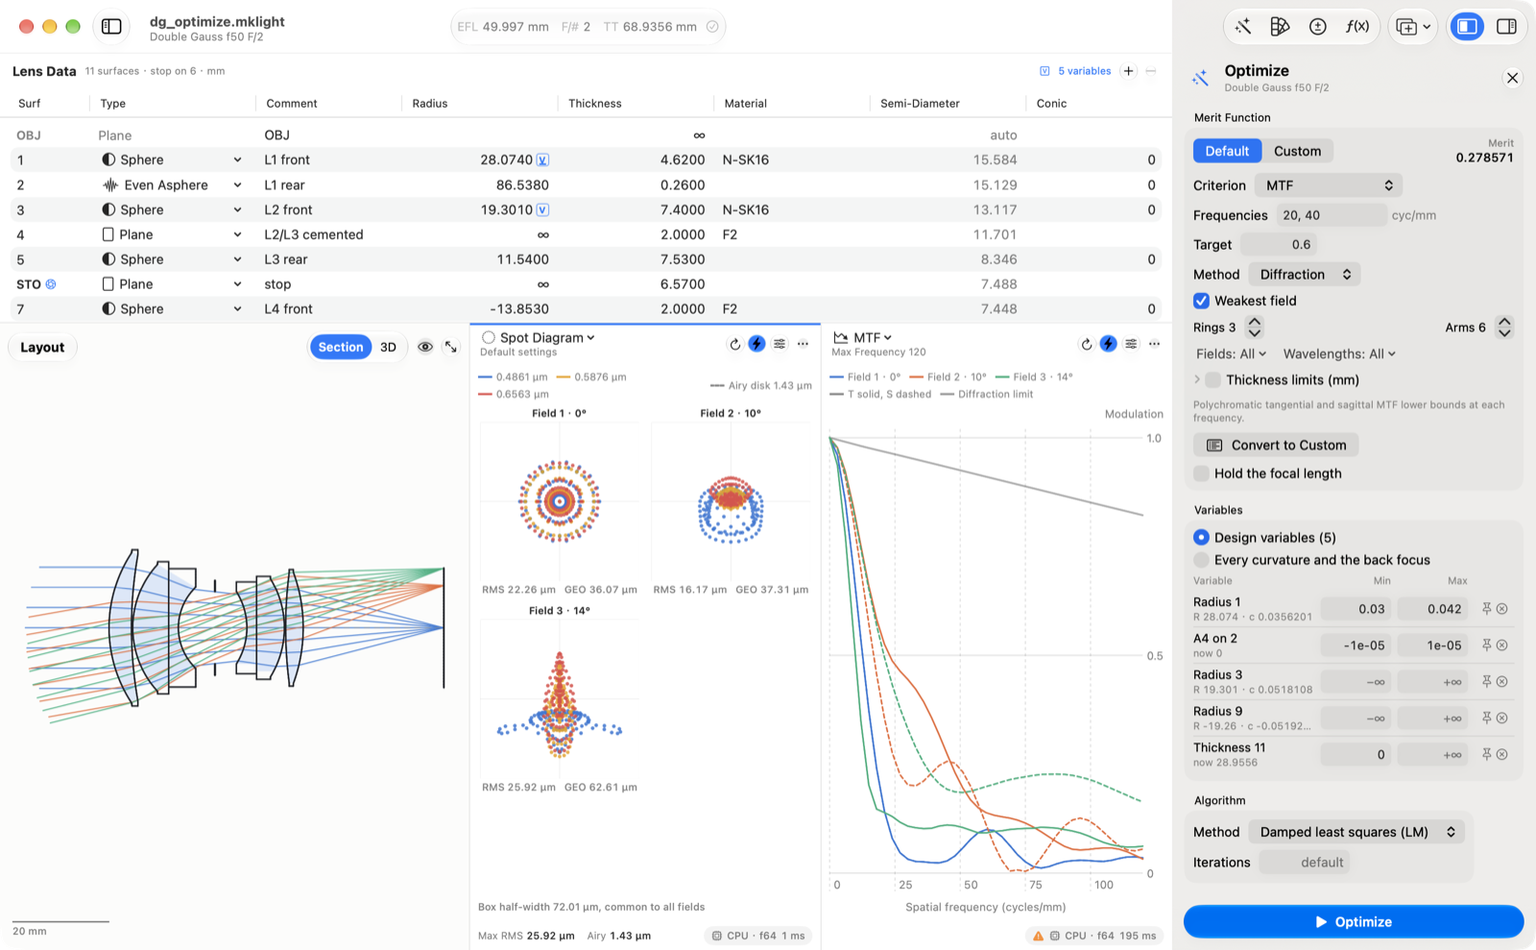
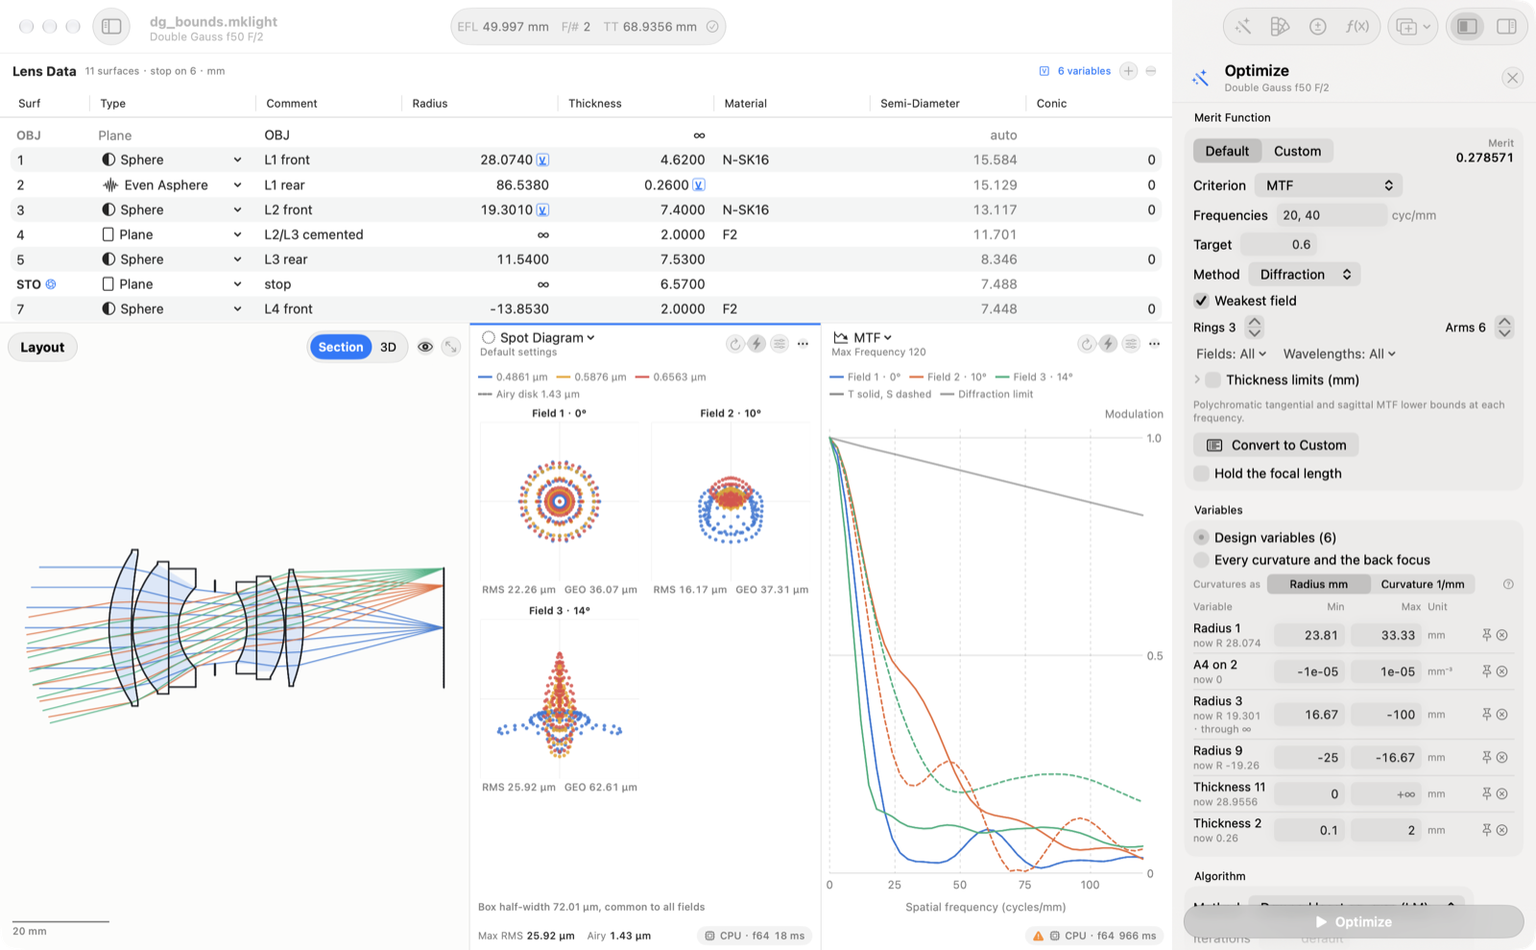
Docs and screenshots for the review round; at least three x labels, shorter bound captions, departure map in µm
APP.md: the anamorphic lens data, one number format, units, the radius
window bounds, narrow panes, grouped warnings with remedies, heat-map
scales, the image simulation's starting patch and controls, the section
stretch, the new launch options and tests, and the engine issues found.
Screenshots: updated main, merit, anamorphic, image simulation, field
maps, spectrum, freeform, diffractive and footprints; new narrow panes,
narrow maps and run details.

diff --git a/apps/macos/Sources/MKLightUI/Views/Jobs/MeritEditor.swift b/apps/macos/Sources/MKLightUI/Views/Jobs/MeritEditor.swift
@@ -981,7 +981,9 @@ struct VariableBoundsRow: View {
         // bounds in the other unit are in the help.
         if path.isCurvature {
             let r = RadiusDisplay.radius(fromCurvature: value)
-            return asRadius ? "now R \(Fmt.short(r))" : "now c \(Fmt.short(value)) (R \(Fmt.short(r)))"
+            guard asRadius else { return "now c \(BoundsFormat.compact(value))" }
+            let s = shown
+            return "now R \(Fmt.short(r))" + (RadiusBounds.passesThroughFlat(minRadius: s.min, maxRadius: s.max) ? " · through ∞" : "")
         }
         return "now \(Fmt.short(value))"
     }

diff --git a/apps/macos/Sources/MKLightUI/Views/Analysis/Components.swift b/apps/macos/Sources/MKLightUI/Views/Analysis/Components.swift
@@ -254,9 +254,9 @@ struct LineChart: View {
     var xTicks: [Double]?
 
     var body: some View {
-        // About one x label per 70 pt, so narrow panes do not overlap them.
+        // About one x label per 60 pt (at least three), so narrow panes do not overlap them.
         GeometryReader { geo in
-            axes(chart, xCount: max(2, min(6, Int(geo.size.width / 70))))
+            axes(chart, xCount: max(3, min(6, Int(geo.size.width / 60))))
         }
     }
 

diff --git a/docs/APP.md b/docs/APP.md
@@ -145,8 +145,22 @@ What we took from Apple's current guidance, and how MKLight applies it.
 * **The lens data is the heart.** The table is always visible at the top of
   the window and shows only what every surface has: surface (with the stop
   marked), type, comment, radius, thickness, material, semi-diameter and
-  conic. Everything type-specific lives in the inspector. A toroid's or
-  biconic's radius and conic are its y section's, marked `y`.
+  conic. Everything type-specific lives in the inspector. Anamorphic
+  surfaces (toroid, biconic, cylinder) show both sections in the radius
+  cell, `y ∞   x −50`, each edited in place (Tab moves y → x); a
+  cylinder's flat section is dimmed and only its powered section's conic
+  shows; a biconic shows both conics.
+* **One number format.** Numbers read the same everywhere, whatever the
+  system region: a decimal point and no digit grouping (`n=1.5`,
+  `12345.678`), as in prescriptions, glass catalogues and the engine's
+  files. Every window runs with `NumberDisplay.locale` (en_US_POSIX), so
+  chart axes, number fields and `formatted()` follow the rule; the
+  `String(format:)` paths are locale-free. Typed numbers also accept a
+  decimal comma (`1,5`). Signed columns never show `−0.0000`.
+* **Units at hand.** Every bounded or edited quantity names its unit: the
+  lens table's header (mm), the bounds list's unit column (`mm`, `1/mm`,
+  `mm⁻³` for A₄, `°`, `µm`, `rad`; dimensionless shows `–`), the colour
+  bars, the axis titles.
 * **Progressive disclosure.** Surface types are described as data
   (`SurfaceTypes`): sections of parameters addressed by their key path in the
   model's JSON (`curvature`, `phase.norm_radius`), coefficient lists with add
@@ -230,7 +244,13 @@ What we took from Apple's current guidance, and how MKLight applies it.
   the accent) and a Footprints button runs `footprint` and draws every
   surface's beam outline per field (`global_outlines`), filled
   translucently. Fit Lens frames the elements; the first fit of a long,
-  slim scene does so by itself. A previewed candidate design shows a glass
+  slim scene does so by itself. **Vertical stretch**: the section views
+  can be drawn ×2 … ×50 taller than long (Display menu); a first fit that
+  would leave the section a sliver (under an eighth of the view's height)
+  turns it on at the smallest step that fills a third. A stretched view
+  says so in a tinted "Stretch ×N" menu among the controls and on the
+  scale bar, which adds an upright bar of a round length as drawn and
+  "vertical ×N"; the 3-D view always keeps true proportions. A previewed candidate design shows a glass
   "Previewing … · not applied" label under the controls.
 * **Analysis panes** (`AnalysisPaneView`): side by side with resizable
   widths. The header has the analysis menu and a one-line state or settings
@@ -238,8 +258,28 @@ What we took from Apple's current guidance, and how MKLight applies it.
   (bolt), Settings (a popover with the schema-driven form; "Pin in pane"
   keeps it as a compact strip) and More. The plot is content. The footer has
   the key numbers and a backend badge (CPU · f64 neutral, GPU · f32 in the
-  accent, an orange mark for warnings or a fallback) that opens the run
-  details. Stale: dimmed, desaturated, slightly blurred, with a glass card
+  accent, an orange mark for warnings or a fallback, with their count when
+  there are several kinds) that opens the run details.
+  * *Narrow panes* (checked at about 240 pt): the header folds Update and
+    Settings into More first, then sets the title a type step smaller,
+    then abbreviates it (`RI Map`, `CRA`, `Pupil Aberr.`; the full title
+    stays in the help tag and the VoiceOver label); the state line
+    truncates and never decides the layout. Legends are one flow that
+    wraps (wavelengths, line styles, the Airy disk together), spot
+    statistics move to two lines, fan plots put the field above the
+    tangential and sagittal plots, chart axes take about one label per
+    70 pt and keep their end labels inside, the CRA legend moves under
+    its picker, the Seidel Petzval radius under its picker and the
+    wavefront coefficients wrap.
+  * *Warnings* (`RunWarnings`): the engine's run warnings are grouped by
+    message (numbers masked), with the fields and wavelengths they
+    concern numbered from 1 as everywhere in the app (`Field 1, Field 3`).
+    They are readable without a click (the badge's help tag lists them),
+    in VoiceOver (the badge's label reads them) and in the run details
+    popover, which also lists the engine's raw messages and offers a
+    one-click remedy where the analysis has the setting: "Sample the Pupil
+    Finer (grid 64 → 128)" for coarse pupil sampling, "Enlarge the Image
+    Grid" for a truncated PSF. Stale: dimmed, desaturated, slightly blurred, with a glass card
   and a prominent Update; updating: a progress line and a gentle pulse. The
   dedicated views are as before (first order with the anamorphic note, spot,
   fans, field curvature, Seidel, MTF, PSF, wavefront, ghosts, stray light,
@@ -249,10 +289,19 @@ What we took from Apple's current guidance, and how MKLight applies it.
   share one reader (`FieldMapData`). A grid run is a heat map over the
   normalised field, interpolated between the sample dots, with a column
   picker that shows each column's definition (beside it, or below in
-  narrow panes) and the diverging scale for signed quantities; an x or y
-  sweep is a curve. Relative illumination adds iso-lines (marching squares,
-  0.5…0.95) on a fixed 0…1 scale and the illumination against image
-  radius. The chief ray angle is plotted against image height with the
+  narrow panes); an x or y sweep is a curve. **Heat-map scales**
+  (`HeatMapScale`, one rule for every map of a quantity): signed data
+  keeps the diverging blue–red scale centred on 0 and symmetric about it;
+  other data takes the perceptual sequential ramp (viridis from its 0.1
+  step: lightness rises monotonically, readable in light and dark and
+  with colour-vision deficiencies) over the data's own range, so a 0.85…1
+  illumination map shows its fall-off; fractions offer "0 to 1" to
+  compare designs; a flat map gets a narrow band around its value. The
+  polarisation pupil maps and generic grids follow it; PSF and irradiance
+  images keep the one-hue magnitude ramp whose zero recedes into the
+  plot. Relative illumination adds iso-lines (marching squares, about
+  five round levels inside the data's range, white on a dark halo,
+  labels kept apart) and the illumination against image radius. The chief ray angle is plotted against image height with the
   sensor limit; the margin between them is shaded and turns red where the
   limit is exceeded, and asymmetric systems open on a map. The glass map
   (`GlassMapChart`, reused by Glass Substitution) draws the catalogue in the
@@ -261,10 +310,21 @@ What we took from Apple's current guidance, and how MKLight applies it.
   glasses are ringed and labelled with their surfaces; hover shows a glass's
   data and a click inspects it. The image simulation shows the simulated
   sensor image beside its source, side by side, split or blinking, with
-  exposure, zoom and pan; built-in patterns are drawn as the engine defines
-  them; a user image (any format ImageIO reads) is cropped to the field,
-  resampled in linear light and sent as a buffer, and the project keeps
-  only its path. The footer has the pixel size, the largest distortion and
+  exposure, zoom and pan. New panes start on a visible patch
+  (`ImageSimulationSettings.starting`): the centre 10 % of the field at
+  256 px (about 9.5 µm pixels on the Double Gauss against its 22 µm RMS
+  spot), a 161-sample PSF window and a 96-sample pupil, so the PSFs are
+  not truncated; the engine's defaults (the full field at 64 px, a
+  33-sample PSF) show no blur at all. The view's controls set the field
+  of view (full field, ½, ¼, centre 10 %, 5 %, 2 %: a square centred on
+  the axis, each with its width and pixel size on the sensor) and the
+  resolution (128 … 1024 px). Image simulation starts manual (seconds per
+  run). Built-in patterns are drawn by the app with the engine's
+  definition, area-sampled (4 × 4 per pixel) and sent as a buffer source
+  at the run's size, so both the shown source and the simulation are
+  antialiased; a user image (any format ImageIO reads) is cropped to the
+  field, resampled in linear light and sent as a buffer, and the project
+  keeps only its path. The footer has the pixel size, the largest distortion and
   the lowest relative illumination of the field mapping, which a popover
   lists node by node. The settings bar has compact controls for two-number
   settings (grid, extent, size), a table for the sensor CRA limit and a
@@ -324,10 +384,22 @@ What we took from Apple's current guidance, and how MKLight applies it.
     edits, on the design's snapshot) and reads its `start` merit and
     operand `start` values; shares are weight × residual² over their sum.
   * **Variables and bounds** (`VariablesBoundsList`): every design variable
-    with its current value (radius and curvature for curvatures), inline
-    min and max (empty is unbounded), pin (equal bounds: kept but held, and
+    with its current value, inline min and max (empty is unbounded) in the
+    unit of the row's unit column, pin (equal bounds: kept but held, and
     left out of the run), remove; out-of-bounds values, automatic
-    semi-diameters and vanished parameters are flagged. New variables get
+    semi-diameters and vanished parameters are flagged. **Radii are
+    bounded as a radius window in mm** by default (`RadiusBounds`; a
+    "Curvatures as Radius mm | Curvature 1/mm" switch shows the engine's
+    curvature bounds instead, and each row's help gives the bounds in the
+    other unit). The window `min … max` rises from min to max on the
+    projective line of radii: 40 … 60 is c ∈ [1/60, 1/40] and −60 … −40 is
+    c ∈ [−1/40, −1/60]; min above max wraps through flat (R = ∞), so
+    100 … −100 is |R| ≥ 100, the curvature interval [−0.01, 0.01] through
+    0 (the caption says "through ∞"); an empty side is open (50 …
+    empty is R ≥ 50, c ∈ [0, 0.02]); 0 is the limit R → 0, leaving the
+    curvature unbounded on that side; ∞ … ∞ holds the surface flat. A
+    window containing R = 0 (−50 … 50) is no curvature interval and is
+    refused with an explanation. New variables get
     sensible bounds: air gaps and the back focus ≥ 0, glass thickness ≥ 1
     mm, model n_d 1.4…2.1 and V_d 15…100, semi-diameters and normalisation
     radii > 0.
@@ -446,8 +518,11 @@ scripts/build-macos.sh --no-engine --engine-only   # remove the library again
   `-MKLightAppearance light|dark` (overrides the system appearance),
   `-MKLightSheet glass`, `-MKLightAutoRun glass` (and `-MKLightAutoPick n`),
   `-MKLightAutoStop s` and `-MKLightAutoApply s` (press Stop / Apply after
-  s seconds), `-MKLightFootprints YES`, `-MKLightFit lens`. Pane layouts
-  come from the document's `views`.
+  s seconds), `-MKLightFootprints YES`, `-MKLightFit lens`,
+  `-MKLightRunDetails <analysis>` (opens that pane's run details) and
+  `-MKLightCurvatureBoundsUnit curvature` (the bounds list's unit, an
+  `@AppStorage` preference). Pane layouts come from the document's
+  `views`.
 
 ## `FFIEngine`
 
@@ -530,8 +605,8 @@ callback never runs on the main thread and holds no engine lock.
 
 ## Tests
 
-`swift test` in `apps/macos` (227 tests in 41 suites: model 69, engine 33,
-FFI 35, UI 90):
+`swift test` in `apps/macos` (241 tests in 42 suites: model 69, engine 33,
+FFI 35, UI 104):
 
 * `MKLightModelTests`: round trips against JSON written by the Rust side
   (every model variant including the extended shapes in
@@ -574,7 +649,15 @@ FFI 35, UI 90):
   section) and variable bounds (defaults, edit, pin, held when pinned, table
   marks, undo); glass substitution settings, progress and results; spectrum
   settings encoding and CSV import; the field-map, glass-map and
-  image-simulation readers.
+  image-simulation readers; the review round (`PolishTests`): radius ↔
+  curvature bounds with signs, windows through ∞, 0 and refused windows
+  through R = 0, units of every bounded quantity, anamorphic table cells
+  (cylinder, biconic, toroid: shown sections, flat section, edits),
+  number formatting (decimal point, decimal comma input, signed zeros),
+  heat-map scale choice (data range, 0…1, diverging, flat maps, the
+  ramp's monotonic lightness, iso-levels), warning grouping and remedies,
+  the automatic stretch and its projection, area-sampled patterns and the
+  image simulation's starting settings.
 * FFI additions: the extended shapes run through the layout (x–z section,
   surface mesh, DOE flag) and Seidel; footprint overlays; the default merit
   evaluates and converts to custom operands with the same merit; custom
@@ -669,6 +752,38 @@ Remaining for an iPadOS target:
   * `image_simulation`'s text chart and PNG-path sources come out
     vertically mirrored (their top row lands at the low-y edge); imported
     images go as buffers, which are correct.
+  * `image_simulation` samples its built-in patterns at the output pixel
+    centres (`pattern_value`), so their edges are staircases; the app
+    sends the patterns area-sampled as buffers instead. The engine should
+    area-sample them (or supersample) itself.
+  * `image_simulation` can only simulate a square centred on the axis
+    (`optics.field_extent`): an off-axis patch around a chosen field point
+    (`optics.field_center: [hx, hy]`, or a rectangle in normalised field)
+    is what a designer needs to see the corner aberrations at a pixel
+    size that resolves them; the app offers centred patches until then.
+    Its defaults (64 px over the full field, a 33-sample PSF of λF/2
+    spacing, a 32-sample pupil) truncate the PSF to about 20 % of its
+    energy on the Double Gauss (`psf_truncated` warnings) and use pixels
+    ten times the spot; the app starts panes with a 161-sample PSF and a
+    96-sample pupil. The engine should size the PSF window and the pupil
+    grid from the spot and the wavefront slope.
+  * Default sampling warns on stock designs: `mtf`, `psf`,
+    `line_spread` and `diffraction_encircled_energy` at the engine's
+    default pupil grid on the Double Gauss warn "wavefront changes by up
+    to 0.58 (0.72) waves between pupil samples (limit 0.5)", the PSF
+    keeps 46 % of its energy on its default image grid, and
+    `relative_illumination_map` warns that "54 of 576 pupil nodes have no
+    ray" at the corners of its square field grid, which lie at √2 of the
+    design's field. The warnings are true statements about the run, so
+    the app shows them (with a one-click finer pupil); the engine should
+    pick its default pupil and image grids from the system (and sample
+    field maps inside the design's field, or not warn about nodes outside
+    it). On the cylindrical adapter `mtf` warns per field and wavelength
+    that parts of the aperture are 0.044 pupil units from the nearest
+    ray (the pupil is anamorphic); the default `image_simulation` PSF
+    spacing (λF/2 at the shortest wavelength) is itself flagged as
+    coarser than Nyquist by a fraction of a percent ("4.948e-4 mm …
+    limit 4.885e-4 mm"), a self-inconsistency of the engine.
   * `glass_map` reports no glass status unless AGF metadata is passed, so
     catalogue glasses show as "Catalogue glass".
   * LM with the MTF weakest-field merit and the EFL hold can end slightly

diff --git a/apps/macos/docs/screenshots/README.md b/apps/macos/docs/screenshots/README.md
@@ -6,25 +6,32 @@ a debug build on the real engine (`scripts/build-macos.sh --debug`) with
 `views`, `merit` and `variables` sections set up the panes, and the debug
 launch options (`-MKLightAppearance light|dark`, `-MKLightSheet`,
 `-MKLightAutoRun`, `-MKLightAutoStop`, `-MKLightAutoApply`,
-`-MKLightAutoPick`, `-MKLightFootprints`, `-MKLightFit lens`, docs/APP.md
-"Building"); downscaled to 1600 px. Appearance in the file name. Reduce
+`-MKLightAutoPick`, `-MKLightFootprints`, `-MKLightFit lens`,
+`-MKLightRunDetails`, docs/APP.md "Building"); downscaled to 1600 px. The
+review round (narrow panes, bounds, sections, scales, image simulation,
+warnings) retook the shots marked *new* or *updated*; the job-panel shots
+(Optimize running and result, Glass Substitution, the custom merit) and the
+welcome window are from the round before. Appearance in the file name. Reduce
 Transparency and Increase Contrast were not captured (switching them changes
 a system setting).
 
 | file | shows |
 |---|---|
-| `main-light.png`, `main-dark.png` | Double Gauss: glass sidebar (analyses in title case), toolbar with the four design jobs, lens data, layout, spot diagram, MTF and the glass map with the design's glasses ringed and labelled with their surfaces; the dark one with the surface inspector |
-| `merit-default-light.png` | Optimize: the default merit generator set to MTF (20 and 40 cycles/mm, target 0.6, weakest field), the live merit, Convert to Custom, the EFL hold; variables with min/max bounds (curvature bounds, an asphere coefficient, the back focus ≥ 0) and their bounded marks in the table |
+| `main-light.png`, `main-dark.png` | *updated* Double Gauss: glass sidebar (analyses in title case), toolbar with the four design jobs, lens data, layout, spot diagram (statistics on two lines in the narrow pane), MTF (its warning badge) and the glass map with the design's glasses ringed and labelled with their surfaces; the dark one with the surface inspector |
+| `merit-default-light.png` | *updated* Optimize: the default merit generator set to MTF (20 and 40 cycles/mm, target 0.6, weakest field), the live merit, Convert to Custom; variables with bounds in their units: radii as radius windows in mm (23.81 … 33.33; 16.67 … −100 through ∞; −25 … −16.67), the A₄ coefficient in mm⁻³, thicknesses in mm, the Radius mm / Curvature 1/mm switch; bounded marks in the table |
 | `merit-custom-dark.png` | the custom merit: operands with parameters, comparison, target and weight, their current values and shares of the merit as bars, constraints badged |
 | `optimize-running-light.png` | an LM run in progress: iteration, search merit, sparkline, the glass action bar with Cancel and Stop |
 | `optimize-result-light.png` | the stopped run's result previewed in the window ("Previewing Optimized design (stopped) · not applied"), the before/after layouts, every variable before → after, Discard and the prominent Apply to Design |
 | `glass-substitution-dark.png` | Glass Substitution on the achromat: 96 combinations ranked by merit with their improvement; candidate 2 previewed in the window and the panes (spot and glass map follow it), the before/after card and the panel's glass map with the candidate's glasses ringed |
 | `glass-applied-light.png` | the best combination (SF5 · N-BAK1) applied as one undoable step; the table shows the new glasses and re-optimised radii |
-| `anamorphic-xz-light.png` | the cylindrical adapter in the X–Z section, the First-Order pane's x/y table (EFL x 49.76, EFL y 99.52, squeeze 2.0000×, meridional), the status capsule's EFL y and squeeze, and the System inspector's first order |
-| `freeform-mesh-light.png` | XY freeform corrector in 3D: the engine's surface mesh, flat shaded, the selected freeform in the accent, framed on the lens; its inspector with the departure map |
-| `footprints-dark.png` | Double Gauss in 3D with the beam footprint of every field on every surface (the rays step back) |
-| `image-simulation-light.png` | image simulation of the Siemens star, source and simulated image side by side, exposure and zoom, pixel size, distortion and relative illumination in the footer |
-| `spectrum-dark.png` | MTF with a photopic spectrum and the spot diagram with a 5500 K blackbody, from the pinned settings bars' spectrum buttons |
-| `field-maps-light.png` | Cooke triplet: relative illumination map with iso-lines and the curve against image radius, chief ray angle against image height with the sensor limit and the shaded margin turning red where it is exceeded, and the pupil aberration map |
-| `diffractive-light.png` | hybrid refractive-diffractive singlet: the DOE marked by a violet hatch in the layout (framed on the lens), the First-Order pane's DOE power, the diffractive inspector |
+| `anamorphic-xz-light.png` | *updated* the cylindrical adapter: both sections in the lens data (`y ∞  x −50`, the conic of the powered x section only, `n=1.5`); the X–Z section with the automatic vertical stretch ×20 ("Stretch ×20" in the controls, the scale bar's upright 2 mm bar and "vertical ×20"); the First-Order pane's x/y table (EFL x 49.76, EFL y 99.52, squeeze 2.0000×, meridional), the status capsule's EFL y and squeeze, and the System inspector's first order |
+| `freeform-mesh-light.png` | *updated* XY freeform corrector in 3D: the engine's surface mesh, flat shaded, the selected freeform in the accent, framed on the lens; its inspector with the departure map |
+| `footprints-dark.png` | *updated* Double Gauss in 3D with the beam footprint of every field on every surface (the rays step back) |
+| `image-simulation-light.png` | *updated* image simulation of the Siemens star with the new starting settings: the centre 10 % of the field at 256 px (9.49 µm pixels), the blur of the Double Gauss visible; the antialiased (area-sampled) source beside it, the View and resolution menus, exposure and zoom, no warnings |
+| `spectrum-dark.png` | *updated* MTF with a photopic spectrum and the spot diagram with a 5500 K blackbody, from the pinned settings bars' spectrum buttons |
+| `field-maps-light.png` | *updated* Cooke triplet: relative illumination map on the perceptual ramp over its own range (0.852 … 1, "Data range \| 0 to 1"), iso-lines every 0.02 with their labels apart, and the curve against image radius; chief ray angle against image height with the sensor limit and the shaded margin turning red where it is exceeded; the pupil aberration map (diverging, centred on 0) |
+| `narrow-panes-light.png` | *new* four panes of about 240 pt: Spot Diagram (title kept, controls folded into More, statistics on two lines), Ray Fan (field above its tangential and sagittal plots, −1 0 1 on both axes), MTF and Field Curv. & Dist. (abbreviated title, one legend flow) |
+| `narrow-maps-dark.png` | *new* the field maps at about 240 pt in dark appearance: RI Map, Chief Ray Angle (legend under its picker), Pupil Aberration, Rel. Illumination |
+| `run-details-light.png` | *new* the MTF's run details: the engine's warnings grouped (one message, Field 1, Field 3) with the one-click "Sample the Pupil Finer (grid 64 → 128)" and the raw messages in a disclosure |
+| `diffractive-light.png` | *updated* hybrid refractive-diffractive singlet: the DOE marked by a violet hatch in the layout (framed on the lens), the First-Order pane's DOE power, the diffractive inspector |
 | `welcome-light.png`, `welcome-dark.png` | welcome window: sample cards with the engine's layouts for every surface type, slim designs framed on their lens |
